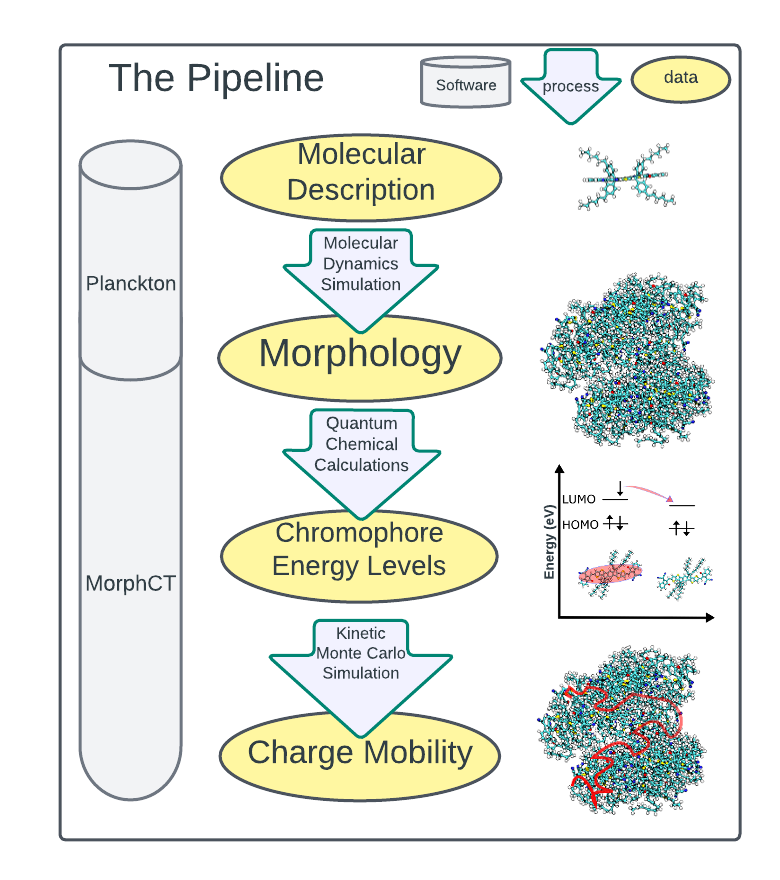
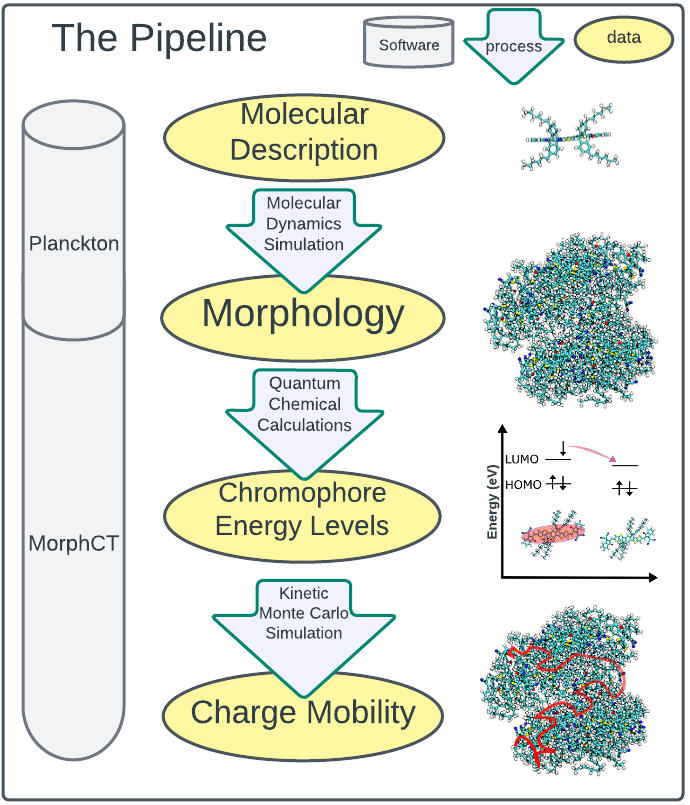
Trying to sort out intro. not sure I should talk this much about P3ht and itic in intro. might belong in beginning of md

diff --git a/src/intro.tex b/src/intro.tex
@@ -113,6 +113,28 @@ available lower energy level. Because of this, the electron cascades down to the
 transfer reaction. Finally the free charges can diffuse until they interect the electrode where it can be
 extracted. This is, of course, an ideal description, as there are loss mechanisms at all four stages. 
 
+% CURRENTLY Says: A bit about the history of PCE, but also here's our first mention of DFT for some reason.
+% SHOULD Say: History of PCE. But where does it fit? After paragraphs talking about optimizing structure and optimizing chemistry? 
+
+The BHJ design pushed the effenciency beyond the 1\% effeiciency milestone. However early BHJ devices utilized
+fullerene derivitives as acceptors which have a theoetical efficiency limit of $\sim13\%$\cite{Scharber2016}
+and their spherical
+structure leads to difficult chemical purification, weak absorption in the visible-NIR spectrum, and rapid
+device degradation. In 2015, a group of researchers conceptulized the use of
+fused-ring electron acceptors, a class of non-fullerene acceptors. This class of molecules consists of
+a fused-ring core and end groups that can be engineered to achieve specific electronic characteristics and side
+chains that can be engineered to achieve desired morphological features. The modularity of FREAs
+layed the stage for headspinning progress in the following years from 4\% PCE to 18\% \cite{Wang2021a}. 
+This designed modularity is a benefit to researchers, as they can alter one component of the molecule and test
+the effect on resulting charge characteristics. For example, in a paper published in 2019 \cite{Benatto2019},
+researchers, knowing that flourine is an electronegative atom, swapped 4 hydrogen atoms for flourine atoms on
+the end groups of the ITIC molecule. Using ab initio DFT, they found 
+that this substitution could lower the exciton
+binding energy (discussed above using \autoref{coulomb}), thus facilitating exciton dissasociation (stage 3 of
+BHJ). They also found
+that this flourination tends to reduce the reorganization energy, which we see in \autoref{results}, has a
+drastic effect on charge mobility.
+
 % CURRENTLY Says: Too many things: Active layer structure good and bad, our work focuses on pure domains, space-charge buildup is a thing. 
 % SHOULD Say: Something more about solution processability and how it dictates structure, focus in on the structure of the pure domains, and pull out space-charge buildup for its own paragraph (or move in CT mechanisms above)
 %ACTION: added a bit about solution processabilty
@@ -122,9 +144,17 @@ is most expressly related to stage $4$ in that we seek to simulate the self-asse
 charge mobility in pure acceptor (or
 pure donor) domains post deposition. 
 These materials can be deposited from solution.
-How these materials will self-assemble in the environment in which they are deposited determines
+How the materials will self-assemble in the environment in which they are deposited determines
 the morphology which intern governs charge mobility.  
 Successfully doing so could inform the ideal conditions for optimizing the morphology.
+
+The movement of charges through pure domains can be modeled as a particle hopping 
+to and from nearby frontier molecular orbitals.
+The generic hopping model goes as follows: the wave functions of
+free charges are localized on particular molecular segments due to the lack of long range electronic strcuture
+, and the movements of these charges can be described as series
+of hops bewtween these molecular segments. Where, and to what extent, charges delocalize can been investigated
+[REFS]. 
 
 Engineering the charge mobility of both donor and accpetor domains is critical
 to overall device performance \cite{Wang2019e}.
@@ -136,29 +166,32 @@ The imbalanced charge-carrier mobility can also lead to space-charge build up in
 low mobility material that can screen the built in field \cite{Bartelt2015}.
 This phenomena has been shown by space charge limited current experiments \cite{Small2013}.
 
-% CURRENTLY Says: A bit about the history of PCE, but also here's our first mention of DFT for some reason.
-% SHOULD Say: History of PCE. But where does it fit? After paragraphs talking about optimizing structure and optimizing chemistry? 
-The BHJ design pushed the effenciency beyond the 1\% effeiciency milestone. Early BHJ devices utilized
-fullerene derivitives as acceptors. In 2015, a group of researchers conceptulized the use of
-fused-ring electron acceptors, a class of non-fullerene acceptors. This class of molecules consists of
-a fused-ring core and end groups that can be engineered to acheive specific electronic characterstics and side
-chains that can be engineered to achieve desried morphological features. The modularity of FREAs
-layed the stage for headspinning progress in the following years from 4\% PCE to 18\% \cite{Wang2021a}. 
-This designed modularity is a benifit to reseachers, as they can alter one component of the molecule and test
-the effect on resulting charge charactoristics. For example, in a paper published in 2019 \cite{Benatto2019},
-researchers, knowing that flourine is an electronegative atom, swapped 4 hydrogen atoms for flourine atoms on
-the end groups of the ITIC molecule. Using density functional theory(DFT), they found 
-that this substitution could lower the exciton
-binding energy (discussed above using \autoref{coulomb}), thus facilitating exciton dissasociation (stage 3 of
-BHJ). They also found
-that this flourination tends to reduce the reorganization energy, which we see in \autoref{results}, has a
-drastic effect on charge mobility.
+In the \autoref{results} we explore the delineation of these delocaliztion segments, which we hereafter refer to as a
+``chromophore.'' 
+The term chromophore arose in a biochemical context and is generally defined
+as a light-absorbing group or molecule \cite{biochemistry}.
+In this context, a chromophore is often associated with the color of a material.
+This is because, mechanistically, a photon collides with a chromophore, the absorbed energy
+excites an electron from the HOMO to the
+LUMO. When the chromophore relaxes to its
+ground state, it releases a photon with wave length (or color) $\lambda = \frac{\hbar c}{E}$,
+where $\hbar$ is Plank's constant, $c$ is the speed of light, and $E$ represents the
+energy difference of the HOMO and LUMO. In plants, this amounts to a rejection of the overabundant amount of
+light in the green region which can damage the plant's DNA. 
 
+% CURRENTLY Says: More chromophore details, but also something about photon release
+% SHOULD Say: About the same stuff, but this should tie into the structure, sequence of charge generation discussion above.
+Our BHJ active layer amounts to a kind of synthetic photosynthesis (woof), and with that we have no DNA to
+protect and no colors emitting from our devices. We nevertheless continue with the use of the term chromophore
+for the sake of brevity. In what is to follow, chromophore is taken to be defined as a molecular segment over which the 
+wave function of an electron (hole) is thought to be fully delocolized in a pure accpetor (donor) domain. 
+It is under this assumption that we execute a hopping model of charge transfer between
+chromophores based on the Marcus rates of electrochemical reactions.
 % CURRENTLY Says: Trial and error is hard, DFT is hard, and software is closed. Too much! 
 % SHOULD Say: We're at least missing a paragraph that says something about how simulations can help us choose which things to make in real life, and perhaps a summary of some of the techniques, what they are, and how they differ. That'll set us up for talking about MD in one paragraph and DFT in another paragraph, their strengths, and hint or preview at how we might use them in this work.
 This type of molecular tinkering is a critical first step that can lay the groundwork for further wetlab
 experiments and can ultimately inform device design. Unfortunately, the molecular modularity of FREAs is not
-mirrored in the software used to study them. DFT is prohibitivly slow on the nanometer
+mirrored in the software used to study them. Ab initio DFT methods are prohibitivly slow on the nanometer
 scale. Furthermore, investigations like these rarely publish the code necessary to reproduce or extend the
 work, and often utilize proprietary software. On the contrary, the software used in this 
 work is maintained in public. In the
@@ -169,8 +202,9 @@ are meant to lower the cognitive load of taking on a research project in this ve
 
 % CURRENTLY Says: Summary of what we focus on, but also definitions of terms.
 % SHOULD Say: Something about acceptors and donors, which means it should go after a description of acceptor and donor moieties, and maybe after a description of structure
+
 In our present work, we present results from a computational investigation of two OPV materials
-used in the design of the active layer of organic solar cells (OSCs). These are P3HT, a
+used in the design of the active layer of BHJ OSCs. These are P3HT, a
 donor molecule, and ITIC, an acceptor molecule. With respect to organic electronic devices, `acceptors' are the
 organic analogue of p-type inorganic semiconductors and `donors' the analogue
 of the n-type. We make this note because in the methods we describe a model of
@@ -236,42 +270,13 @@ the second leg of the pipeline; KMC simulation methods and software are explore 
 
 \begin{figure}
   \center
-  \includegraphics[width=0.8\linewidth]{figures/the-pipeline.png} 
+  \includegraphics[width=0.9\linewidth]{figures/the-pipeline.png} 
     \caption{The pipeline for progressively graduating atomistic data to charge characteristics. On the left
-    we see our packages for facilitation these legs of the pipeline.}
+    we see our packages developed for the facilitating these legs of the pipeline.}
   \label{pipeline}
 \end{figure}
 
-% SHOULD Say: What a chromophore is. talk about chromophores, charge delocalization, and hopping in the context of structure and OPVs here is good.
-Stage 4 of the BHJ, the movement of charges through pure domains can be modeled as a particle hopping 
-to and from nearby frontier molecular orbitals.
-The generic hopping model goes as follows: the wave functions of
-free charges are localized on particular molecular segments due to the lack of long range electronic strcuture
-, and the movements of these charges can be described as series
-of hops bewtween these molecular segments. Where, and to what extent, charges delocalize can been investigated
-[REFS]. 
-
-In the \autoref{results} we explore the delineation of these delocaliztion segments, which we hereafter refer to as a
-``chromophore.'' 
-The term chromophore arose in a biochemical context and is generally defined
-as a light-absorbing group or molecule \cite{biochemistry}.
-In this context, a chromophore is often associated with the color of a material.
-This is because, mechanistically, a photon collides with a chromophore, the absorbed energy
-excites an electron from the HOMO to the
-LUMO. When the chromophore relaxes to its
-ground state, it releases a photon with wave length (or color) $\lambda = \frac{\hbar c}{E}$,
-where $\hbar$ is Plank's constant, $c$ is the speed of light, and $E$ represents the
-energy difference of the HOMO and LUMO. In plants, this amounts to a rejection of the overabundant amount of
-light in the green region which can damage the plant's DNA. 
-
-% CURRENTLY Says: More chromophore details, but also something about photon release
-% SHOULD Say: About the same stuff, but this should tie into the structure, sequence of charge generation discussion above.
-Our BHJ active layer amounts to a kind of synthetic photosynthesis (woof), and with that we have no DNA to
-protect and no colors emitting from our devices. We nevertheless continue with the use of the term chromophore
-for the sake of brevity. In what is to follow, chromophore is taken to be defined as a molecular segment over which the 
-wave function of an electron (hole) is thought to be fully delocolized in a pure accpetor (donor) domain. 
-It is under this assumption that we execute a hopping model of charge transfer between
-chromophores based on the Marcus rates of electrochemical reactions.  
+  
 
 % SHOULD Say: More about what TRUE is, why we think it's good, and then pivot to talking about how modularity is can help with TRUE. 
 TRUE materials simulation tools are developed with an emphasis on creating tools that are
